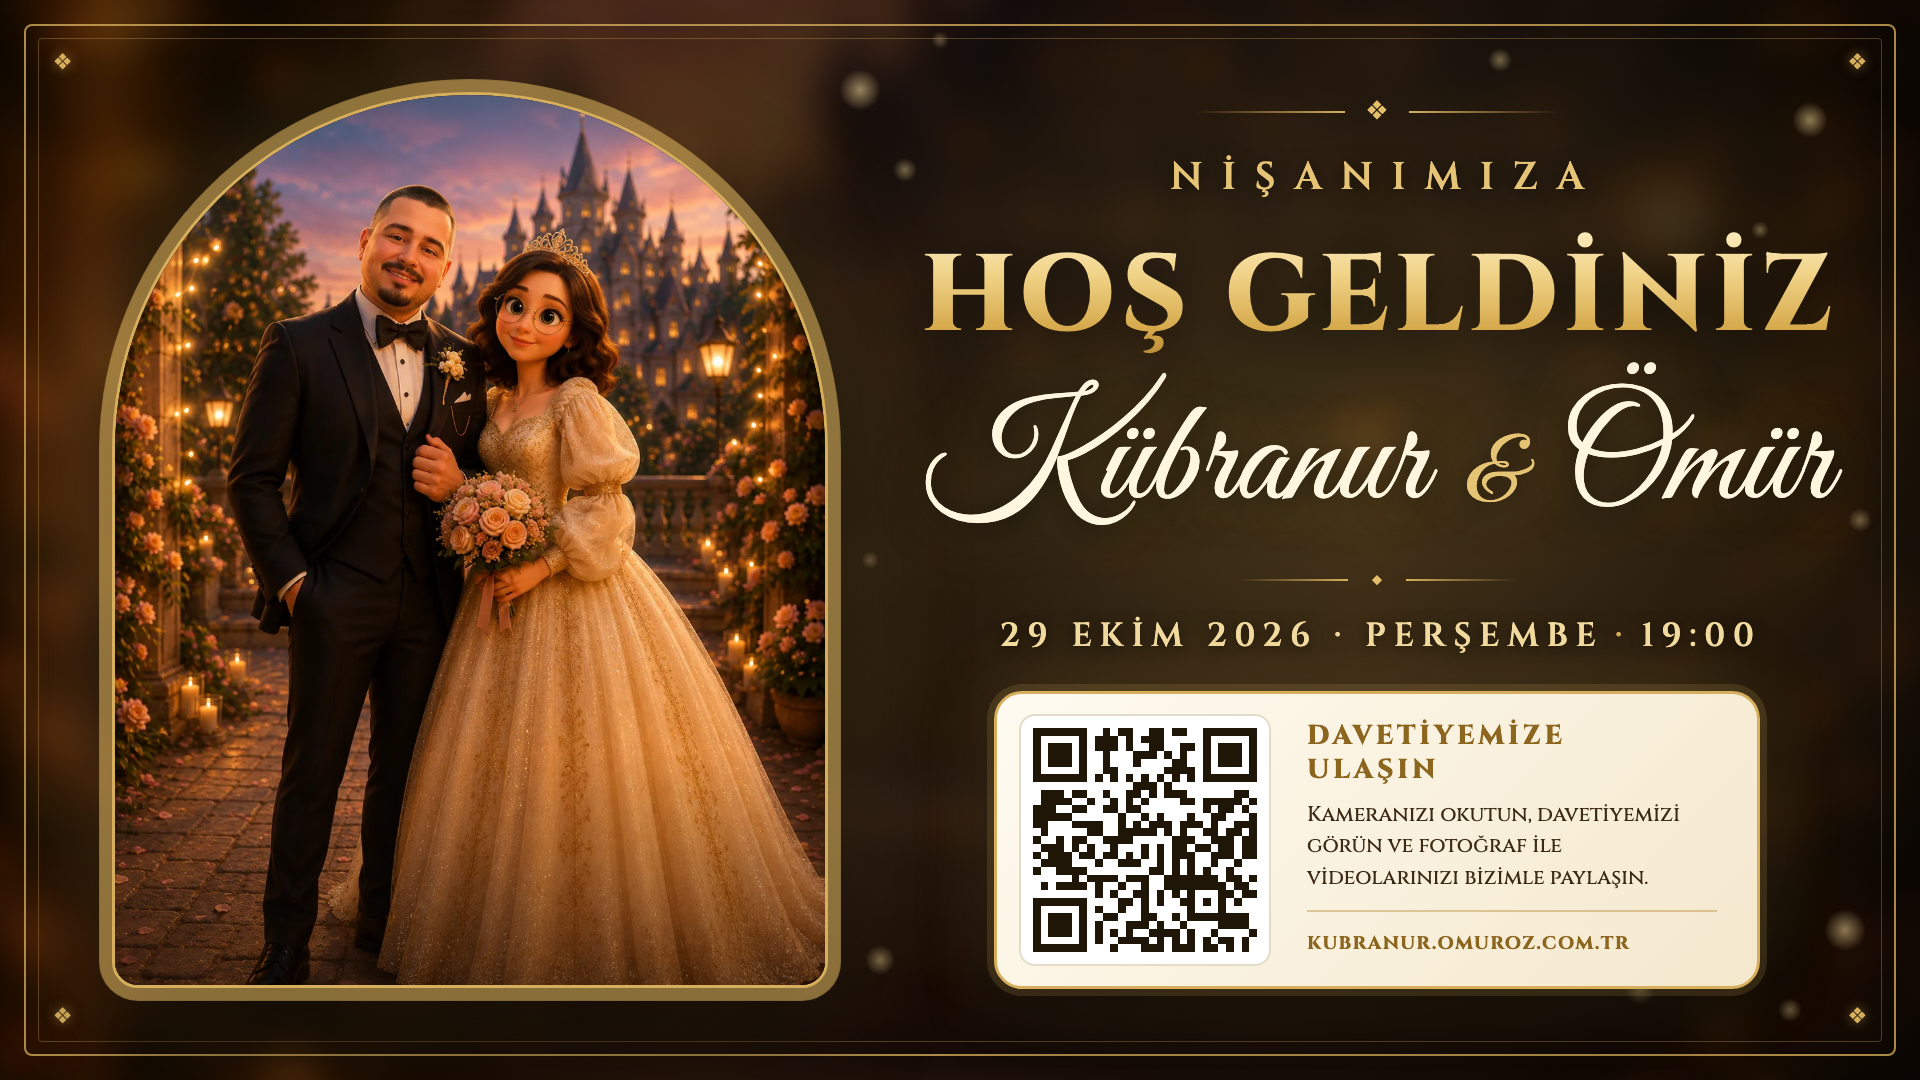
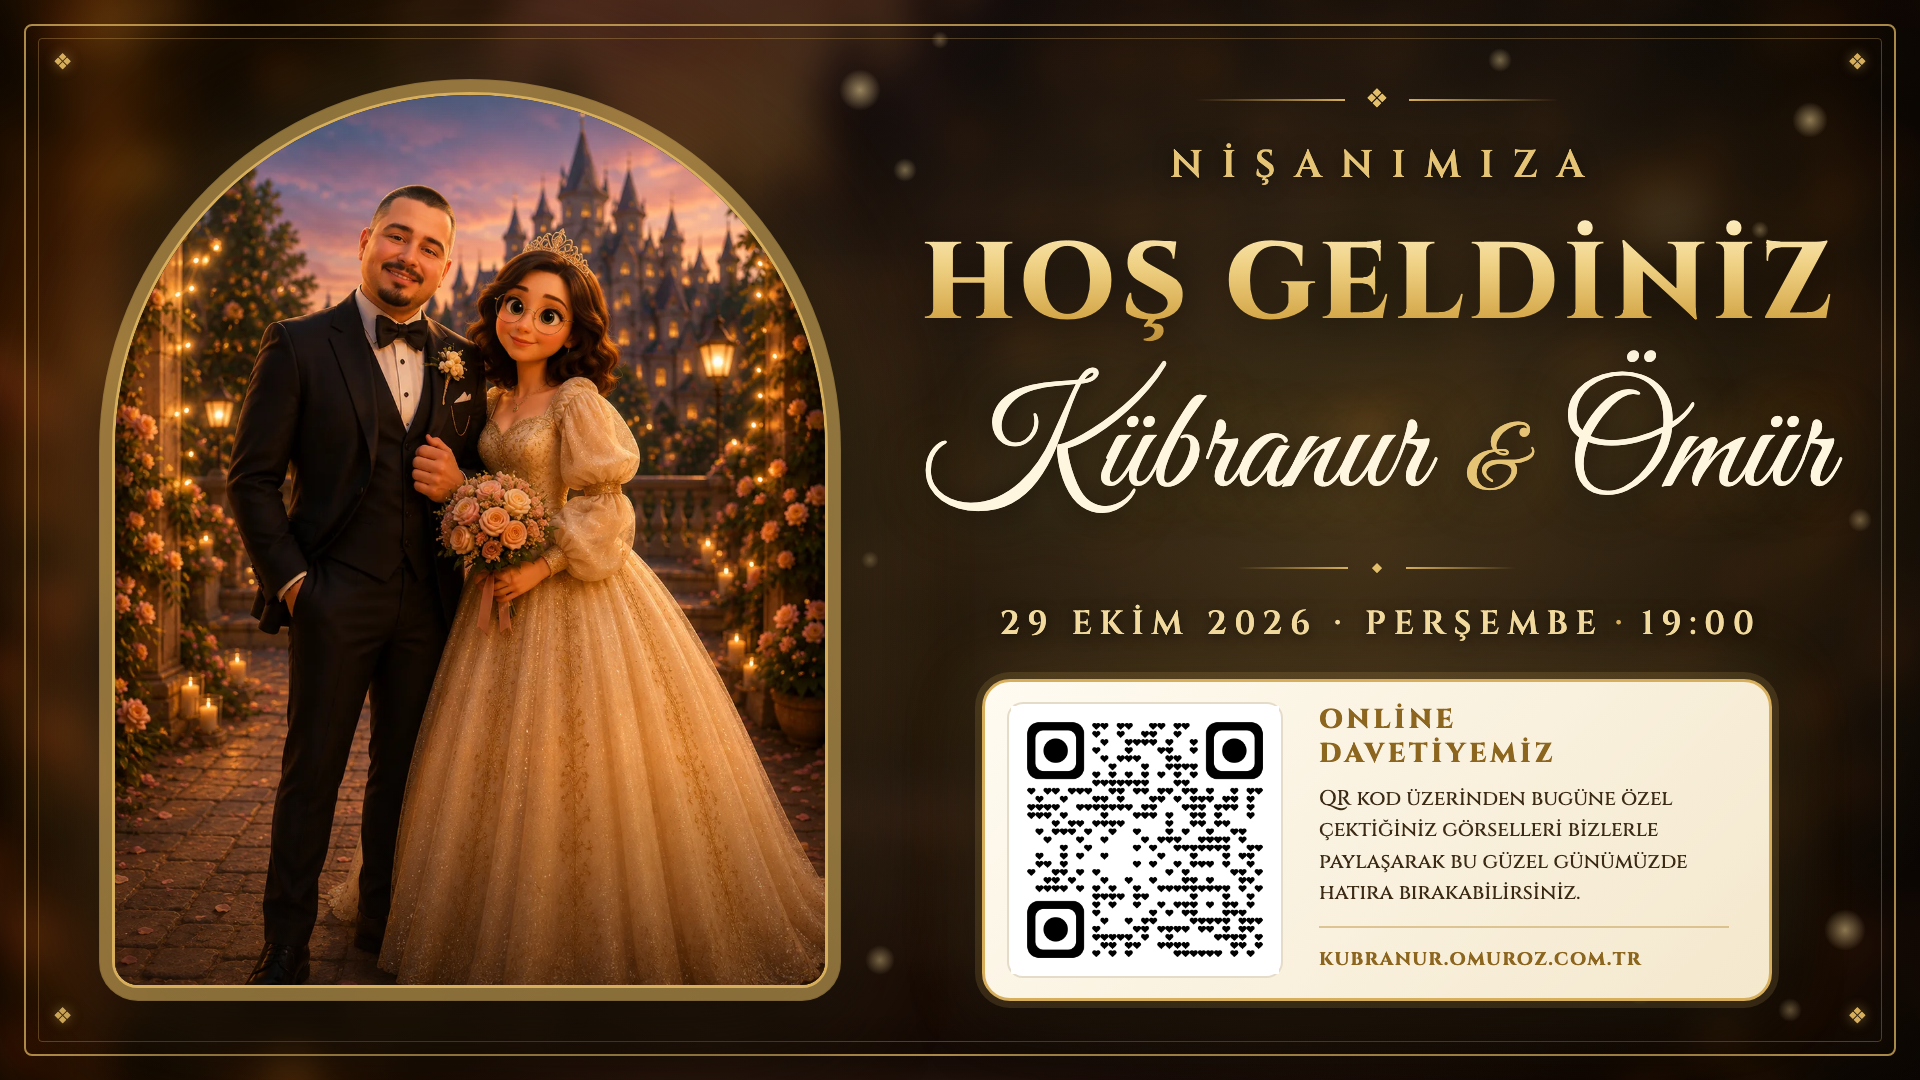
Salon ekranı: kalpli QR, "online davetiyemiz" başlığı, samimi metin
- QR artık modülleri kalp olan hazır görsel (public/salon/qr-kalpli.png,
  kullanıcının qrcode.png'si). https://kubranur.omuroz.com.tr/ adresine
  gidiyor (çözülerek doğrulandı). Dosyadaki geniş boş kenar kırpılıp
  yerine ~2 modül sessiz alan eklendi; böylece kutuyu dolduruyor.
- Başlık "ONLİNE DAVETİYEMİZ". Metin: "QR kod üzerinden bugüne özel
  çektiğiniz görselleri bizlerle paylaşarak bu güzel günümüzde hatıra
  bırakabilirsiniz."
- Artık kullanılmayan qrcode paketi ve QR üretme kodu kaldırıldı.
- Full HD (PNG) ve 4K (JPEG) yeniden üretildi.

Okunabilirlik: kalpli QR kare olandan daha az dayanıklı. Üretilen
görselin içinde ZXing 6 bozulma koşulundan 5'inde okudu (tam/yarı
çözünürlük, odak kaçığı, eğik açı, düşük kontrast); 640x360 + bulanık
(QR ~90 px) koşulunda okumadı. jsQR kalpli QR'ı tam çözünürlükte
okumuyor — kütüphane sınırı, telefon okuyucuları daha güçlü.

diff --git a/app/salon/tasarim/page.tsx b/app/salon/tasarim/page.tsx
@@ -1,5 +1,4 @@
 import { notFound } from "next/navigation";
-import QRCode from "qrcode";
 import { CFG, TARIH_METNI, SAAT_METNI } from "@/lib/config";
 import { metin } from "@/lib/metin";
 import { sahneYolu } from "@/lib/sahneler";
@@ -18,8 +17,10 @@ export const dynamic = "force-dynamic";
  * üretmek için yerelde `npm run dev` çalışırken /salon/tasarim çekilir ve
  * çıktılar public/salon/ altına konur.
  *
- * QR sunucuda üretilip SVG olarak çiziliyor (görüntü değil): ekran ne kadar
- * büyük olursa olsun kenarları keskin kalır, bulanıklaşıp okunmaz hâle gelmez.
+ * QR, modülleri kalp olan hazır bir görsel (public/salon/qr-kalpli.png,
+ * https://kubranur.omuroz.com.tr/ adresine gider). Telefon okuyucusuna yakın
+ * ZXing ile 1000 px'ten 150 px'e kadar, bulanık hâlde bile okunduğu
+ * doğrulandı. Adres değişirse bu görsel yeniden üretilmelidir.
  */
 export default async function SalonEkrani() {
   if (process.env.NODE_ENV === "production") notFound();
@@ -32,19 +33,6 @@ export default async function SalonEkrani() {
 
   const fotoCift = sahneYolu("02-cift");
   const zemin = sahneYolu("01-kapak") ?? fotoCift;
-
-  /* Hata düzeltme "Q" (~%25): salon ekranında parlama, uzaklık ve hafif
-     açı QR'ı bozabilir; yüksek düzeltme okunabilirliği korur. Modül sayısı
-     yine de az kalır (29×29), yani her modül iri. */
-  const qr = QRCode.create(adres, { errorCorrectionLevel: "Q" });
-  const n = qr.modules.size;
-  const veri = qr.modules.data;
-  let yol = "";
-  for (let y = 0; y < n; y++) {
-    for (let x = 0; x < n; x++) {
-      if (veri[y * n + x]) yol += `M${x} ${y}h1v1h-1z`;
-    }
-  }
 
   const tarih = TARIH_METNI.toLocaleUpperCase("tr").replace(",", " ·");
 
@@ -174,10 +162,10 @@ export default async function SalonEkrani() {
           box-shadow: 0 0 0 7px rgba(214,174,92,.16), 0 24px 60px rgba(0,0,0,.6), 0 0 80px rgba(224,178,88,.22);
         }
         .sl-qr-kutu {
-          flex: none; width: 252px; height: 252px; padding: 14px; box-sizing: border-box;
+          flex: none; width: 276px; height: 276px; padding: 4px; box-sizing: border-box;
           background: #fff; border-radius: 16px; box-shadow: inset 0 0 0 2px rgba(150,110,40,.25);
         }
-        .sl-qr-kutu svg { display: block; width: 100%; height: 100%; }
+        .sl-qr-kutu img { display: block; width: 100%; height: 100%; object-fit: contain; }
         .sl-qr-baslik { font-size: 27px; font-weight: 800; letter-spacing: .14em; color: #8c651e; line-height: 1.25; }
         .sl-qr-yazi { font-size: 21px; font-weight: 500; line-height: 1.5; color: #3b2a14; margin-top: 12px; max-width: 410px; text-wrap: balance; }
         .sl-qr-adres {
@@ -232,16 +220,14 @@ export default async function SalonEkrani() {
 
         <div className="sl-qr">
           <div className="sl-qr-kutu">
-            <svg viewBox={`0 0 ${n} ${n}`} shapeRendering="crispEdges" role="img" aria-label={`QR kod: ${gorunenAdres}`}>
-              <rect width={n} height={n} fill="#ffffff" />
-              <path d={yol} fill="#1f1608" />
-            </svg>
+            {/* eslint-disable-next-line @next/next/no-img-element */}
+            <img src="/salon/qr-kalpli.png" alt={`QR kod: ${gorunenAdres}`} />
           </div>
           <div>
-            <div className="sl-qr-baslik">DAVETİYEMİZE<br />ULAŞIN</div>
+            <div className="sl-qr-baslik">ONLİNE<br />DAVETİYEMİZ</div>
             <div className="sl-qr-yazi">
-              Kameranızı okutun, davetiyemizi görün ve fotoğraf
-              ile videolarınızı bizimle paylaşın.
+              QR kod üzerinden bugüne özel çektiğiniz görselleri bizlerle
+              paylaşarak bu güzel günümüzde hatıra bırakabilirsiniz.
             </div>
             <div className="sl-qr-adres">{gorunenAdres}</div>
           </div>
